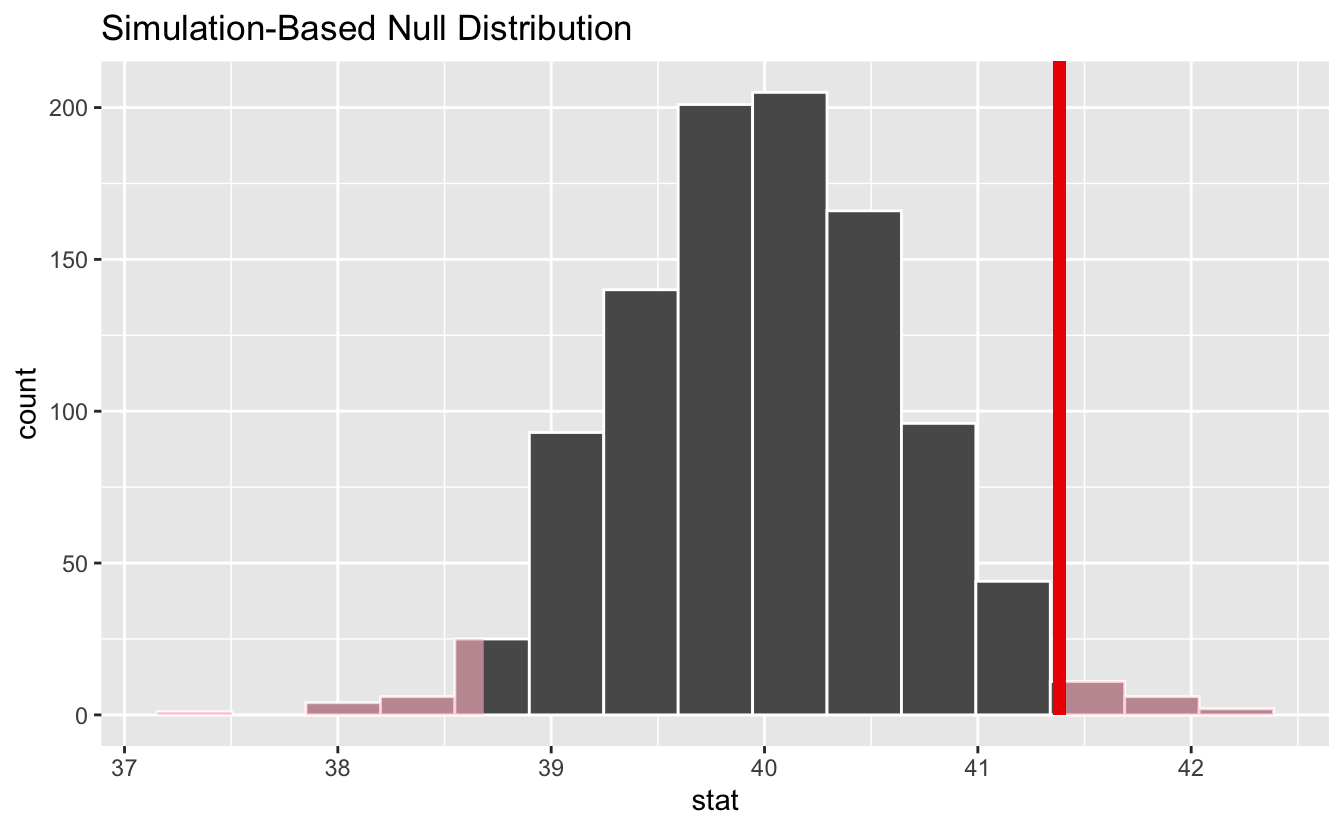
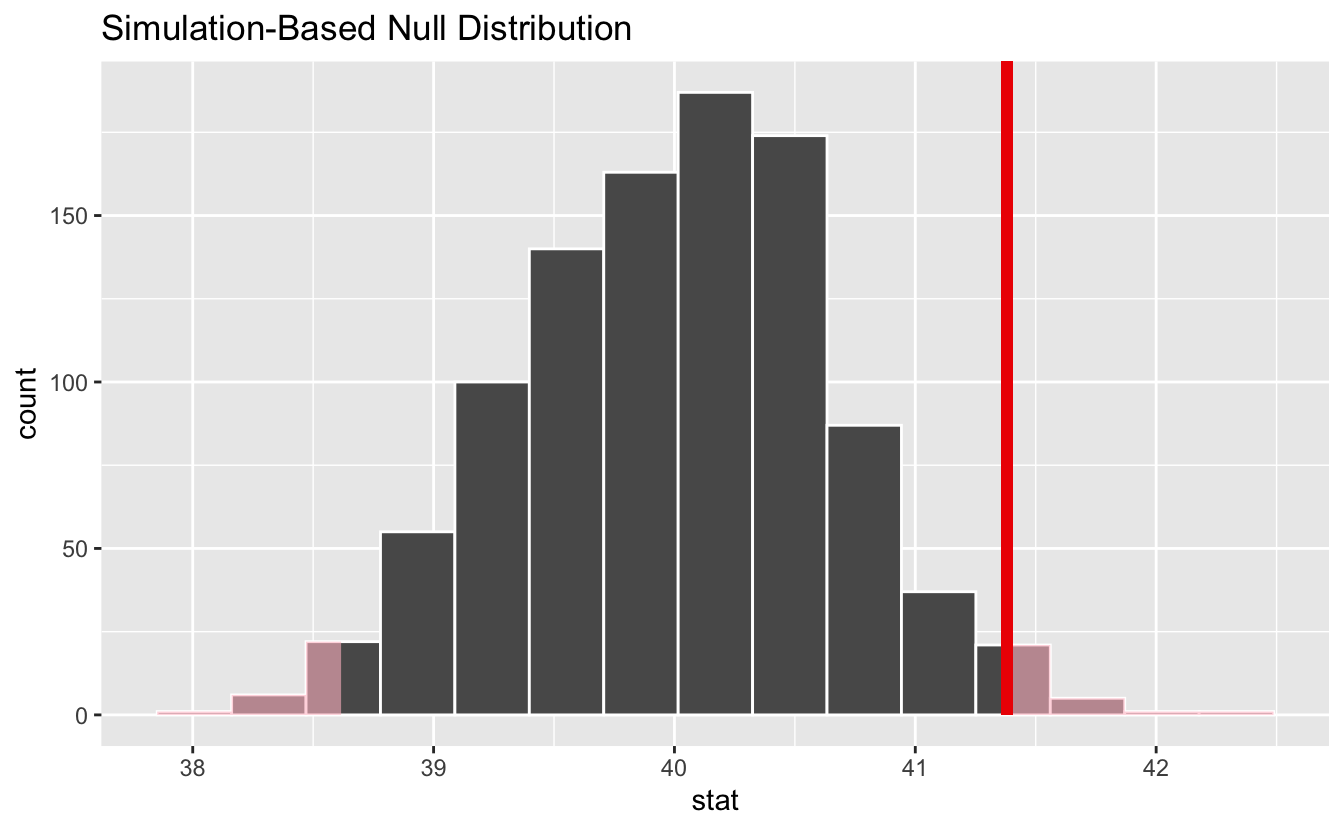
add thumbnail

diff --git a/content/blog/infer-1-0-0/index.md b/content/blog/infer-1-0-0/index.md
@@ -10,12 +10,12 @@ description: >
     to statistical inference, is now on CRAN.
 
 photo:
-  url: simonpcouch.com
-  author: Simon Couch
+  url: https://twitter.com/graysonwwhite
+  author: Grayson White
 
 categories: [package] 
 tags: [tidymodels]
-rmd_hash: ba6458907e43236a
+rmd_hash: 1f6aa1a52e981bb4
 
 ---
 
@@ -25,9 +25,9 @@ TODO:
 * [x] Edit (or delete) the description; note this appears in the Twitter card
 * [x] Pick category and tags (see existing with [`hugodown::tidy_show_meta()`](https://rdrr.io/pkg/hugodown/man/use_tidy_post.html))
 * [x] Find photo & update yaml metadata
-* [ ] Create `thumbnail-sq.jpg`; height and width should be equal
-* [ ] Create `thumbnail-wd.jpg`; width should be >5x height
-* [ ] [`hugodown::use_tidy_thumbnails()`](https://rdrr.io/pkg/hugodown/man/use_tidy_post.html)
+* [x] Create `thumbnail-sq.jpg`; height and width should be equal
+* [x] Create `thumbnail-wd.jpg`; width should be >5x height
+* [x] [`hugodown::use_tidy_thumbnails()`](https://rdrr.io/pkg/hugodown/man/use_tidy_post.html)
 * [x] Add intro sentence, e.g. the standard tagline for the package
 * [x] [`usethis::use_tidy_thanks()`](https://usethis.r-lib.org/reference/use_tidy_thanks.html)
 -->
@@ -286,16 +286,16 @@ Continuing on with our example above, about the average number of hours worked a
 <span class='c'>#&gt; <span style='color: #555555;'># Groups:   replicate [1,000]</span></span>
 <span class='c'>#&gt;    replicate hours</span>
 <span class='c'>#&gt;        <span style='color: #555555; font-style: italic;'>&lt;int&gt;</span> <span style='color: #555555; font-style: italic;'>&lt;dbl&gt;</span></span>
-<span class='c'>#&gt; <span style='color: #555555;'> 1</span>         1  17.6</span>
-<span class='c'>#&gt; <span style='color: #555555;'> 2</span>         1  18.6</span>
-<span class='c'>#&gt; <span style='color: #555555;'> 3</span>         1  38.6</span>
+<span class='c'>#&gt; <span style='color: #555555;'> 1</span>         1  48.6</span>
+<span class='c'>#&gt; <span style='color: #555555;'> 2</span>         1  38.6</span>
+<span class='c'>#&gt; <span style='color: #555555;'> 3</span>         1  36.6</span>
 <span class='c'>#&gt; <span style='color: #555555;'> 4</span>         1  38.6</span>
-<span class='c'>#&gt; <span style='color: #555555;'> 5</span>         1  23.6</span>
-<span class='c'>#&gt; <span style='color: #555555;'> 6</span>         1  38.6</span>
-<span class='c'>#&gt; <span style='color: #555555;'> 7</span>         1  43.6</span>
-<span class='c'>#&gt; <span style='color: #555555;'> 8</span>         1  41.6</span>
-<span class='c'>#&gt; <span style='color: #555555;'> 9</span>         1  86.6</span>
-<span class='c'>#&gt; <span style='color: #555555;'>10</span>         1  43.6</span>
+<span class='c'>#&gt; <span style='color: #555555;'> 5</span>         1  87.6</span>
+<span class='c'>#&gt; <span style='color: #555555;'> 6</span>         1  41.6</span>
+<span class='c'>#&gt; <span style='color: #555555;'> 7</span>         1  18.6</span>
+<span class='c'>#&gt; <span style='color: #555555;'> 8</span>         1  38.6</span>
+<span class='c'>#&gt; <span style='color: #555555;'> 9</span>         1  53.6</span>
+<span class='c'>#&gt; <span style='color: #555555;'>10</span>         1  38.6</span>
 <span class='c'>#&gt; <span style='color: #555555;'># … with 499,990 more rows</span></span></code></pre>
 
 </div>
@@ -317,16 +317,16 @@ To generate a null distribution for the independence of two variables, we could 
 <span class='c'>#&gt; <span style='color: #555555;'># Groups:   replicate [1,000]</span></span>
 <span class='c'>#&gt;    partyid   age replicate</span>
 <span class='c'>#&gt;    <span style='color: #555555; font-style: italic;'>&lt;fct&gt;</span>   <span style='color: #555555; font-style: italic;'>&lt;dbl&gt;</span>     <span style='color: #555555; font-style: italic;'>&lt;int&gt;</span></span>
-<span class='c'>#&gt; <span style='color: #555555;'> 1</span> dem        36         1</span>
-<span class='c'>#&gt; <span style='color: #555555;'> 2</span> rep        34         1</span>
+<span class='c'>#&gt; <span style='color: #555555;'> 1</span> ind        36         1</span>
+<span class='c'>#&gt; <span style='color: #555555;'> 2</span> ind        34         1</span>
 <span class='c'>#&gt; <span style='color: #555555;'> 3</span> ind        24         1</span>
-<span class='c'>#&gt; <span style='color: #555555;'> 4</span> dem        42         1</span>
-<span class='c'>#&gt; <span style='color: #555555;'> 5</span> dem        31         1</span>
-<span class='c'>#&gt; <span style='color: #555555;'> 6</span> ind        32         1</span>
+<span class='c'>#&gt; <span style='color: #555555;'> 4</span> rep        42         1</span>
+<span class='c'>#&gt; <span style='color: #555555;'> 5</span> ind        31         1</span>
+<span class='c'>#&gt; <span style='color: #555555;'> 6</span> dem        32         1</span>
 <span class='c'>#&gt; <span style='color: #555555;'> 7</span> ind        48         1</span>
-<span class='c'>#&gt; <span style='color: #555555;'> 8</span> ind        36         1</span>
-<span class='c'>#&gt; <span style='color: #555555;'> 9</span> dem        30         1</span>
-<span class='c'>#&gt; <span style='color: #555555;'>10</span> ind        33         1</span>
+<span class='c'>#&gt; <span style='color: #555555;'> 8</span> rep        36         1</span>
+<span class='c'>#&gt; <span style='color: #555555;'> 9</span> ind        30         1</span>
+<span class='c'>#&gt; <span style='color: #555555;'>10</span> dem        33         1</span>
 <span class='c'>#&gt; <span style='color: #555555;'># … with 499,990 more rows</span></span></code></pre>
 
 </div>
@@ -345,16 +345,16 @@ Depending on whether you're carrying out computation-based inference or theory-b
 <span class='c'>#&gt; <span style='color: #555555;'># A tibble: 1,000 x 2</span></span>
 <span class='c'>#&gt;    replicate  stat</span>
 <span class='c'>#&gt;        <span style='color: #555555; font-style: italic;'>&lt;int&gt;</span> <span style='color: #555555; font-style: italic;'>&lt;dbl&gt;</span></span>
-<span class='c'>#&gt; <span style='color: #555555;'> 1</span>         1  38.8</span>
-<span class='c'>#&gt; <span style='color: #555555;'> 2</span>         2  39.6</span>
-<span class='c'>#&gt; <span style='color: #555555;'> 3</span>         3  39.4</span>
-<span class='c'>#&gt; <span style='color: #555555;'> 4</span>         4  39.7</span>
-<span class='c'>#&gt; <span style='color: #555555;'> 5</span>         5  40.0</span>
-<span class='c'>#&gt; <span style='color: #555555;'> 6</span>         6  40.3</span>
-<span class='c'>#&gt; <span style='color: #555555;'> 7</span>         7  40.6</span>
-<span class='c'>#&gt; <span style='color: #555555;'> 8</span>         8  39.9</span>
+<span class='c'>#&gt; <span style='color: #555555;'> 1</span>         1  41.0</span>
+<span class='c'>#&gt; <span style='color: #555555;'> 2</span>         2  40.3</span>
+<span class='c'>#&gt; <span style='color: #555555;'> 3</span>         3  38.8</span>
+<span class='c'>#&gt; <span style='color: #555555;'> 4</span>         4  40.0</span>
+<span class='c'>#&gt; <span style='color: #555555;'> 5</span>         5  41.3</span>
+<span class='c'>#&gt; <span style='color: #555555;'> 6</span>         6  40.0</span>
+<span class='c'>#&gt; <span style='color: #555555;'> 7</span>         7  41.3</span>
+<span class='c'>#&gt; <span style='color: #555555;'> 8</span>         8  39.2</span>
 <span class='c'>#&gt; <span style='color: #555555;'> 9</span>         9  40.4</span>
-<span class='c'>#&gt; <span style='color: #555555;'>10</span>        10  39.8</span>
+<span class='c'>#&gt; <span style='color: #555555;'>10</span>        10  38.1</span>
 <span class='c'>#&gt; <span style='color: #555555;'># … with 990 more rows</span></span></code></pre>
 
 </div>
@@ -369,18 +369,18 @@ The output of [`calculate()`](https://infer.tidymodels.org/reference/calculate.h
   <span class='nf'><a href='https://infer.tidymodels.org/reference/generate.html'>generate</a></span><span class='o'>(</span>reps <span class='o'>=</span> <span class='m'>1000</span>, type <span class='o'>=</span> <span class='s'>"permute"</span><span class='o'>)</span> <span class='o'>%&gt;%</span>
   <span class='nf'><a href='https://infer.tidymodels.org/reference/calculate.html'>calculate</a></span><span class='o'>(</span><span class='s'>"diff in means"</span>, order <span class='o'>=</span> <span class='nf'><a href='https://rdrr.io/r/base/c.html'>c</a></span><span class='o'>(</span><span class='s'>"degree"</span>, <span class='s'>"no degree"</span><span class='o'>)</span><span class='o'>)</span>
 <span class='c'>#&gt; <span style='color: #555555;'># A tibble: 1,000 x 2</span></span>
-<span class='c'>#&gt;    replicate   stat</span>
-<span class='c'>#&gt;        <span style='color: #555555; font-style: italic;'>&lt;int&gt;</span>  <span style='color: #555555; font-style: italic;'>&lt;dbl&gt;</span></span>
-<span class='c'>#&gt; <span style='color: #555555;'> 1</span>         1  1.06 </span>
-<span class='c'>#&gt; <span style='color: #555555;'> 2</span>         2  0.377</span>
-<span class='c'>#&gt; <span style='color: #555555;'> 3</span>         3 -<span style='color: #BB0000;'>0.461</span></span>
-<span class='c'>#&gt; <span style='color: #555555;'> 4</span>         4 -<span style='color: #BB0000;'>1.33</span> </span>
-<span class='c'>#&gt; <span style='color: #555555;'> 5</span>         5  0.985</span>
-<span class='c'>#&gt; <span style='color: #555555;'> 6</span>         6 -<span style='color: #BB0000;'>0.690</span></span>
-<span class='c'>#&gt; <span style='color: #555555;'> 7</span>         7  0.244</span>
-<span class='c'>#&gt; <span style='color: #555555;'> 8</span>         8  2.35 </span>
-<span class='c'>#&gt; <span style='color: #555555;'> 9</span>         9 -<span style='color: #BB0000;'>1.02</span> </span>
-<span class='c'>#&gt; <span style='color: #555555;'>10</span>        10  0.350</span>
+<span class='c'>#&gt;    replicate    stat</span>
+<span class='c'>#&gt;        <span style='color: #555555; font-style: italic;'>&lt;int&gt;</span>   <span style='color: #555555; font-style: italic;'>&lt;dbl&gt;</span></span>
+<span class='c'>#&gt; <span style='color: #555555;'> 1</span>         1  0.738 </span>
+<span class='c'>#&gt; <span style='color: #555555;'> 2</span>         2 -<span style='color: #BB0000;'>0.708</span> </span>
+<span class='c'>#&gt; <span style='color: #555555;'> 3</span>         3 -<span style='color: #BB0000;'>1.54</span>  </span>
+<span class='c'>#&gt; <span style='color: #555555;'> 4</span>         4  0.076<span style='text-decoration: underline;'>8</span></span>
+<span class='c'>#&gt; <span style='color: #555555;'> 5</span>         5 -<span style='color: #BB0000;'>0.470</span> </span>
+<span class='c'>#&gt; <span style='color: #555555;'> 6</span>         6 -<span style='color: #BB0000;'>0.214</span> </span>
+<span class='c'>#&gt; <span style='color: #555555;'> 7</span>         7 -<span style='color: #BB0000;'>0.963</span> </span>
+<span class='c'>#&gt; <span style='color: #555555;'> 8</span>         8  0.368 </span>
+<span class='c'>#&gt; <span style='color: #555555;'> 9</span>         9 -<span style='color: #BB0000;'>0.434</span> </span>
+<span class='c'>#&gt; <span style='color: #555555;'>10</span>        10  0.782 </span>
 <span class='c'>#&gt; <span style='color: #555555;'># … with 990 more rows</span></span></code></pre>
 
 </div>
@@ -444,11 +444,11 @@ Notice that `infer` has also shaded the regions of the null distribution that ar
 <span class='c'>#&gt; <span style='color: #555555;'># A tibble: 1 x 1</span></span>
 <span class='c'>#&gt;   p_value</span>
 <span class='c'>#&gt;     <span style='color: #555555; font-style: italic;'>&lt;dbl&gt;</span></span>
-<span class='c'>#&gt; <span style='color: #555555;'>1</span>   0.036</span></code></pre>
+<span class='c'>#&gt; <span style='color: #555555;'>1</span>   0.028</span></code></pre>
 
 </div>
 
-It looks like the p-value is 0.036, which is pretty small---if the true mean number of hours worked per week was actually 40, the probability of our sample mean being this far (1.382 hours) from 40 would be 0.036. This may or may not be statistically significantly different, depending on the significance level $\alpha$ you decided on *before* you ran this analysis. If you had set $\alpha = .05$, then this difference would be statistically significant, but if you had set $\alpha = .01$, then it would not be.
+It looks like the p-value is 0.028, which is pretty small---if the true mean number of hours worked per week was actually 40, the probability of our sample mean being this far (1.382 hours) from 40 would be 0.028. This may or may not be statistically significantly different, depending on the significance level $\alpha$ you decided on *before* you ran this analysis. If you had set $\alpha = .05$, then this difference would be statistically significant, but if you had set $\alpha = .01$, then it would not be.
 
 To get a confidence interval around our estimate, we can write:
 
@@ -508,16 +508,16 @@ If passed a [`generate()`](https://infer.tidymodels.org/reference/generate.html)
 <span class='c'>#&gt; <span style='color: #555555;'># Groups:   replicate [100]</span></span>
 <span class='c'>#&gt;    replicate term          estimate</span>
 <span class='c'>#&gt;        <span style='color: #555555; font-style: italic;'>&lt;int&gt;</span> <span style='color: #555555; font-style: italic;'>&lt;chr&gt;</span>            <span style='color: #555555; font-style: italic;'>&lt;dbl&gt;</span></span>
-<span class='c'>#&gt; <span style='color: #555555;'> 1</span>         1 intercept      40.1   </span>
-<span class='c'>#&gt; <span style='color: #555555;'> 2</span>         1 age             0.015<span style='text-decoration: underline;'>8</span></span>
-<span class='c'>#&gt; <span style='color: #555555;'> 3</span>         1 collegedegree   1.89  </span>
-<span class='c'>#&gt; <span style='color: #555555;'> 4</span>         2 intercept      38.6   </span>
-<span class='c'>#&gt; <span style='color: #555555;'> 5</span>         2 age             0.061<span style='text-decoration: underline;'>5</span></span>
-<span class='c'>#&gt; <span style='color: #555555;'> 6</span>         2 collegedegree   0.890 </span>
-<span class='c'>#&gt; <span style='color: #555555;'> 7</span>         3 intercept      40.9   </span>
-<span class='c'>#&gt; <span style='color: #555555;'> 8</span>         3 age             0.022<span style='text-decoration: underline;'>8</span></span>
-<span class='c'>#&gt; <span style='color: #555555;'> 9</span>         3 collegedegree  -<span style='color: #BB0000;'>1.22</span>  </span>
-<span class='c'>#&gt; <span style='color: #555555;'>10</span>         4 intercept      38.9   </span>
+<span class='c'>#&gt; <span style='color: #555555;'> 1</span>         1 intercept      40.6   </span>
+<span class='c'>#&gt; <span style='color: #555555;'> 2</span>         1 age             0.023<span style='text-decoration: underline;'>0</span></span>
+<span class='c'>#&gt; <span style='color: #555555;'> 3</span>         1 collegedegree  -<span style='color: #BB0000;'>0.273</span> </span>
+<span class='c'>#&gt; <span style='color: #555555;'> 4</span>         2 intercept      38.3   </span>
+<span class='c'>#&gt; <span style='color: #555555;'> 5</span>         2 age             0.069<span style='text-decoration: underline;'>3</span></span>
+<span class='c'>#&gt; <span style='color: #555555;'> 6</span>         2 collegedegree   0.874 </span>
+<span class='c'>#&gt; <span style='color: #555555;'> 7</span>         3 intercept      42.3   </span>
+<span class='c'>#&gt; <span style='color: #555555;'> 8</span>         3 age            -<span style='color: #BB0000;'>0.024</span><span style='color: #BB0000; text-decoration: underline;'>0</span></span>
+<span class='c'>#&gt; <span style='color: #555555;'> 9</span>         3 collegedegree   0.097<span style='text-decoration: underline;'>8</span></span>
+<span class='c'>#&gt; <span style='color: #555555;'>10</span>         4 intercept      41.0   </span>
 <span class='c'>#&gt; <span style='color: #555555;'># … with 290 more rows</span></span></code></pre>
 
 </div>
@@ -535,16 +535,16 @@ If `type = "permute"`, a set of unquoted column names in the data to permute (in
 <span class='c'>#&gt; <span style='color: #555555;'># Groups:   replicate [100]</span></span>
 <span class='c'>#&gt;    replicate term          estimate</span>
 <span class='c'>#&gt;        <span style='color: #555555; font-style: italic;'>&lt;int&gt;</span> <span style='color: #555555; font-style: italic;'>&lt;chr&gt;</span>            <span style='color: #555555; font-style: italic;'>&lt;dbl&gt;</span></span>
-<span class='c'>#&gt; <span style='color: #555555;'> 1</span>         1 intercept     36.3    </span>
-<span class='c'>#&gt; <span style='color: #555555;'> 2</span>         1 age            0.118  </span>
-<span class='c'>#&gt; <span style='color: #555555;'> 3</span>         1 collegedegree  0.888  </span>
-<span class='c'>#&gt; <span style='color: #555555;'> 4</span>         2 intercept     40.9    </span>
-<span class='c'>#&gt; <span style='color: #555555;'> 5</span>         2 age           -<span style='color: #BB0000;'>0.006</span><span style='color: #BB0000; text-decoration: underline;'>13</span></span>
-<span class='c'>#&gt; <span style='color: #555555;'> 6</span>         2 collegedegree  2.02   </span>
-<span class='c'>#&gt; <span style='color: #555555;'> 7</span>         3 intercept     38.3    </span>
-<span class='c'>#&gt; <span style='color: #555555;'> 8</span>         3 age            0.075<span style='text-decoration: underline;'>1</span> </span>
-<span class='c'>#&gt; <span style='color: #555555;'> 9</span>         3 collegedegree  0.096<span style='text-decoration: underline;'>4</span> </span>
-<span class='c'>#&gt; <span style='color: #555555;'>10</span>         4 intercept     43.1    </span>
+<span class='c'>#&gt; <span style='color: #555555;'> 1</span>         1 intercept      39.3   </span>
+<span class='c'>#&gt; <span style='color: #555555;'> 2</span>         1 age             0.044<span style='text-decoration: underline;'>1</span></span>
+<span class='c'>#&gt; <span style='color: #555555;'> 3</span>         1 collegedegree   0.993 </span>
+<span class='c'>#&gt; <span style='color: #555555;'> 4</span>         2 intercept      39.0   </span>
+<span class='c'>#&gt; <span style='color: #555555;'> 5</span>         2 age             0.057<span style='text-decoration: underline;'>6</span></span>
+<span class='c'>#&gt; <span style='color: #555555;'> 6</span>         2 collegedegree   0.077<span style='text-decoration: underline;'>1</span></span>
+<span class='c'>#&gt; <span style='color: #555555;'> 7</span>         3 intercept      44.6   </span>
+<span class='c'>#&gt; <span style='color: #555555;'> 8</span>         3 age            -<span style='color: #BB0000;'>0.078</span><span style='color: #BB0000; text-decoration: underline;'>6</span></span>
+<span class='c'>#&gt; <span style='color: #555555;'> 9</span>         3 collegedegree  -<span style='color: #BB0000;'>0.240</span> </span>
+<span class='c'>#&gt; <span style='color: #555555;'>10</span>         4 intercept      41.4   </span>
 <span class='c'>#&gt; <span style='color: #555555;'># … with 290 more rows</span></span></code></pre>
 
 </div>
